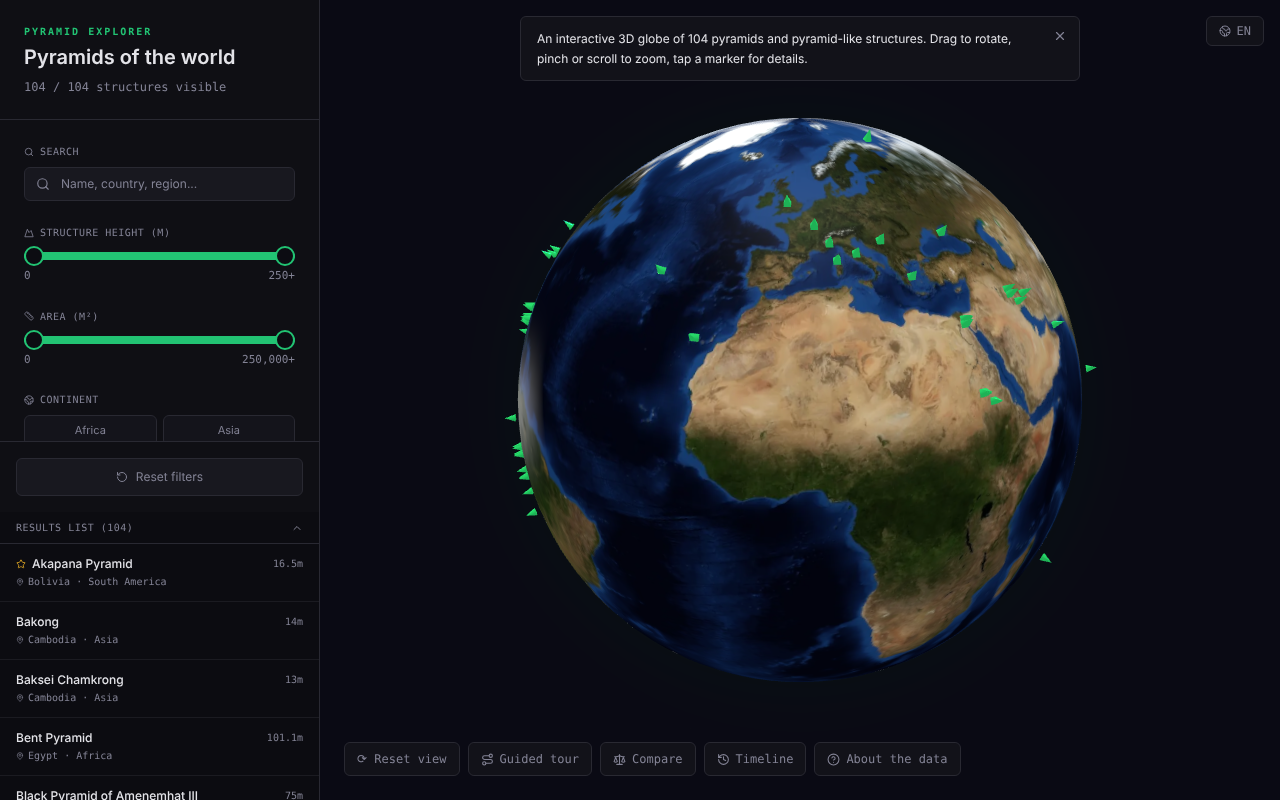
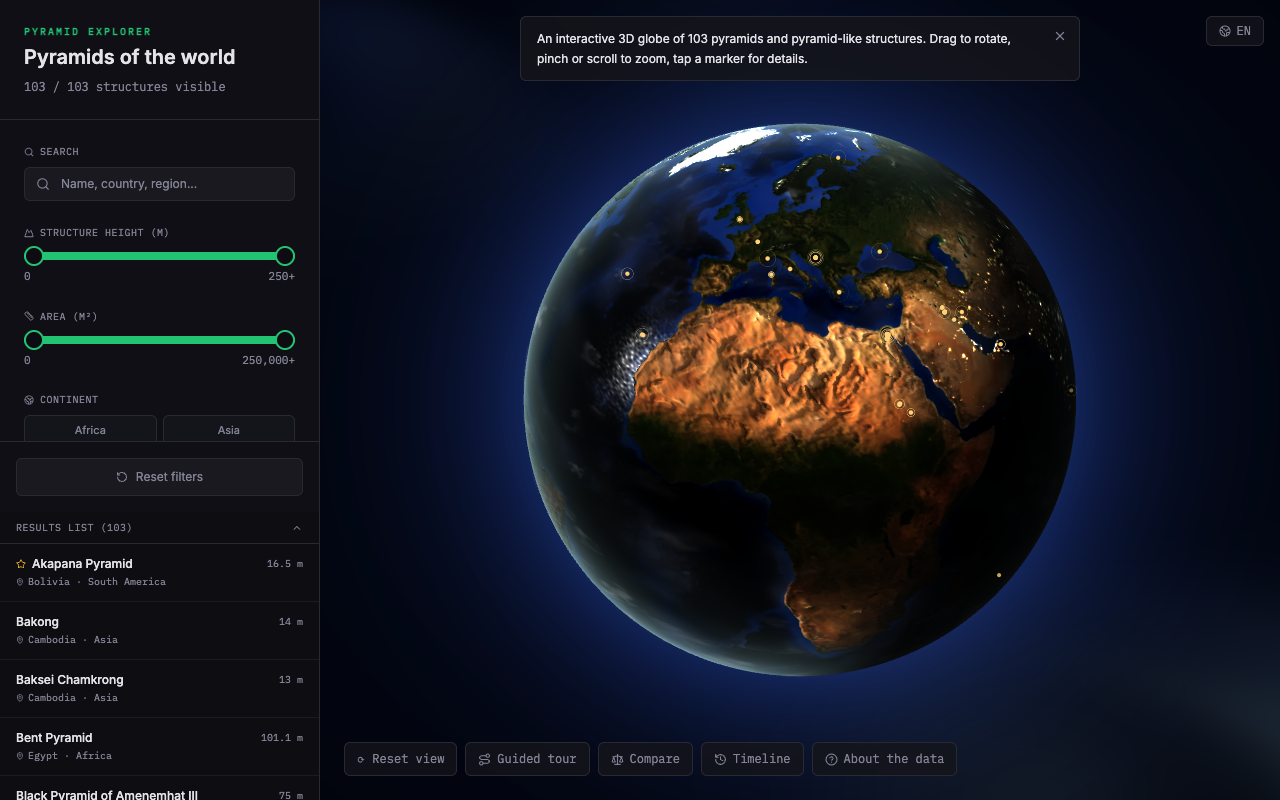
Refresh README, roadmap and screenshots; apply the independent data check
- README describes the current globe, data rules and commands
- The roadmap lists what this branch did and what is still open
- New screenshots of the current globe
- An agent reopened the changed sources and confirmed them; a
  watermarked photo of the Tomb of the General was replaced

diff --git a/README.md b/README.md
@@ -1,6 +1,8 @@
 # Pyramid Explorer
 
-An interactive 3D globe of 103 pyramids and pyramid-like structures around the world: Egypt, Mesoamerica, Sudan, China, Europe and more. Pick a marker to see dimensions, dating, function, local legends and sources. Every site shows how well its data is sourced, and alternative claims are kept apart from mainstream archaeology.
+An interactive 3D globe of 103 pyramids and pyramid-like structures: Egypt, Sudan, Mesoamerica, the Andes, China, Southeast Asia, Europe and the Pacific. Pick a pin to see dimensions, dating, function, local legends, photos and sources. Every site shows how well its data is sourced, and alternative claims are kept apart from mainstream archaeology.
+
+Live: https://pyramid-explorer-global.vercel.app
 
 | Desktop | Mobile |
 | --- | --- |
@@ -8,20 +10,24 @@ An interactive 3D globe of 103 pyramids and pyramid-like structures around the w
 
 ## Features
 
-- 3D globe (three.js via globe.gl) with drag, pinch and scroll zoom, slow auto-rotation, and day/night lighting from the real sun position.
-- Fly-to animation when a site is picked from the globe or from the list.
-- Filters by continent, period, height, area, free text, verification and contested status, with sorting.
-- Compare sites at the same scale, follow a timeline of construction, or take a guided tour.
-- Shareable URLs for sites, filters and comparisons; a prerendered page per site and a sitemap for search engines.
-- Detail panel with verification status, sources, photos and clearly separated alternative claims.
-- Six languages for both the interface and the site texts: EN, IT, ES, FR, DE, PT.
-- Works on phones: the panel becomes a drawer, and the globe uses a lighter 2K texture, no bump map and a capped pixel ratio.
-- No WebGL? A flat world map with the same markers is shown instead.
-- Respects `prefers-reduced-motion` (no auto-rotation) and pauses rendering while the tab is hidden.
+- A planet globe in three.js with clickable pins, drag, pinch and scroll zoom. A static picture paints first; the 3D scene starts after it and lowers its quality on slow devices.
+- Filters by continent, civilization, period, height, area, free text, verification and contested status, with sorting.
+- Compare sites at the same scale, follow a timeline, or take a guided tour.
+- Photo gallery from Wikimedia Commons on 93 sites, with author and licence next to every photo.
+- 360° panoramas from Commons for a few sites, and schematic 3D models of five Egyptian pyramids built only from sourced measurements.
+- Shareable URLs for sites, filters and comparisons; a prerendered page per site and a sitemap.
+- Six languages for the interface and the site texts: English, Italian, Spanish, French, German, Portuguese.
+- Works on phones: the site card covers half the screen so the site stays visible on the globe.
+- Keyboard and screen reader support in the dialogs, and `prefers-reduced-motion` is respected.
+- No WebGL? A flat world map with the same pins is shown instead.
+
+## Data
+
+The dataset is `src/data/pyramids.json`. Each value either has a source or is listed in the site's `campi_senza_fonte` and marked as unsourced in the interface; nothing is estimated. [The data audit](docs/DATA_AUDIT.md) lists the sources, the corrections and the remaining gaps, with a coverage report generated from the data.
 
 ## Stack
 
-React 18, TypeScript, Vite, Tailwind CSS, shadcn/ui, framer-motion, three.js + react-globe.gl, Vitest + Testing Library. Static site, no backend: the dataset is `src/data/pyramids.json`. Hosted on Vercel.
+React 18, TypeScript, Vite, Tailwind CSS, Radix, three.js, Vitest and Testing Library. Static site with no backend, hosted on Vercel.
 
 ## Run locally
 
@@ -29,15 +35,12 @@ React 18, TypeScript, Vite, Tailwind CSS, shadcn/ui, framer-motion, three.js + r
 bun install --frozen-lockfile
 bun run dev      # http://localhost:8080
 bun run test
-bun run build
+bun run build    # also prerenders /site/<id> pages and the sitemap
+bun run audit    # refreshes the coverage report in docs/DATA_AUDIT.md
 ```
 
-No environment variables are required.
-
-## Performance notes
-
-three.js and globe.gl are loaded lazily, after first paint. The globe chunk loads afterwards, and site translations load only for the language in use. Earth textures are self-hosted WebP files in `public/textures`, derived from the three-globe example images: about 150 kB on mobile and 540 kB on desktop, instead of roughly 2.7 MB from a CDN.
+Vite needs Node 20.19 or later. The planet's textures and mesh are served from Vercel Blob; to work offline, copy them to `public/planet` and set `VITE_PLANET_ASSETS=/planet` in `.env.local`.
 
 ## Project status
 
-Personal project under active development: see [the roadmap](docs/ROADMAP.md). The data was fact-checked against sources, and the gaps are listed in [the data audit](docs/DATA_AUDIT.md). No value without a source is presented as verified.
+Personal project: see [the roadmap](docs/ROADMAP.md) and [the photo and 360° notes](docs/PHOTO_EXPERIENCE.md).

diff --git a/docs/ROADMAP.md b/docs/ROADMAP.md
@@ -1,18 +1,32 @@
 # Roadmap
 
-## Done on `improve/portfolio-ready`
-- Renamed to Pyramid Explorer; neutral labels for mainstream data and alternative claims.
-- Fact-checked dataset with status, sources and flagged gaps; new sourced sites.
-- Site texts in six languages, with language detection and memory.
-- Shareable URLs for sites, filters and comparisons; prerendered site pages and sitemap.
-- Scale comparison, timeline, guided tour, period and verification filters, sorting, two-thumb range sliders.
+## Done
 
-- Removed unused components and packages; fonts are self-hosted.
+### First release (PR #1 to #4)
+- Renamed to Pyramid Explorer; neutral labels for mainstream data and alternative claims.
+- Fact-checked dataset of 103 sites with status, sources and flagged gaps.
+- Site texts in six languages, with language detection and memory.
+- Shareable URLs for sites, filters and comparisons; prerendered site pages and a sitemap.
+- Scale comparison, timeline, guided tour, period and verification filters, sorting.
+- Planet globe with real site pins; a static picture paints first and the 3D scene starts afterwards.
+- Photo gallery from Commons with author and licence on every photo.
+- 360° view, first trial on Commons panoramas.
+
+### Final polish (PR #5)
+- Coordinates of every site checked against Wikipedia, Wikidata and OpenStreetMap; the Pyramid of the Moon and Marae Mahaiatea were moved to their real positions.
+- Khufu confirmed in the Giza panorama from the author's own note on Commons.
+- 19 altitude and area gaps filled from sources; a coverage report in `DATA_AUDIT.md` is generated from the data, and a test fails when it is stale.
+- Photos for 10 more sites (93 of 103).
+- A second Commons search for 360° panoramas on all 99 uncovered sites found no new file that shows one of them (see `PHOTO_EXPERIENCE.md`).
+- Civilization filter, from the builders already named in the data.
+- Schematic 3D models of five Egyptian pyramids, built only from sourced measurements and loaded on demand.
+- Brighter globe on phones, at the same cost per pixel.
+- Keyboard, focus and screen reader fixes in the gallery and the 360° viewer; Escape in a dialog no longer closes the site card.
+- Translated 404 page, globe and map labels; localized numbers in the comparison.
 
 ## Next
-1. Planet globe with real site pins, adapted from the GetLayers scene: smaller textures, one bloom pass at most, capped pixel ratio, assets on Vercel Blob. Keep it only if it runs well on a real phone.
-2. Keep measuring with PageSpeed Insights after each deploy. The page now paints a static globe first and starts three.js on the first interaction or about 2.5 s after load; that moves the globe's cost later, it does not remove it.
-3. 360° view: see `PHOTO_EXPERIENCE.md`. The photo gallery with credits is done, covering 83 sites.
-4. Close the source gaps listed in `DATA_AUDIT.md`, starting with altitude and area.
-5. Rendered 3D models of a few well-documented pyramids, drawn from sourced measurements.
-6. Add civilization filters once the data has a structured civilization field.
+1. Close the remaining source gaps in `DATA_AUDIT.md`: 76 altitudes and 71 areas are still unsourced. Open sources rarely give a site's altitude; an archaeological or survey source is needed, not a terrain model.
+2. Sites still without photos: the claimed Visoko hills, Kola, Crimea, the Azores, Gunung Lalakon, Icod de los Vinos, Gympie, Pulemelei. Most have no free image of the structure itself.
+3. More 360° coverage needs either new Commons uploads or a decision on Street View or Mapillary, which need an API key.
+4. A human review of the data check, entry by entry: so far it was done by agents against the sources.
+5. Keep measuring with Lighthouse and PageSpeed after each deploy.

diff --git a/docs/DATA_AUDIT.md b/docs/DATA_AUDIT.md
@@ -86,6 +86,8 @@ Every site was compared with the coordinates of the Wikipedia pages it already c
 | `xunantunich_el_castillo` | altitude | 152 m | Portuguese Wikipedia infobox for the site |
 | `pachacamac_templo_pintado` | altitude | 80 m | Italian Wikipedia infobox for the site |
 
+A separate agent reopened every source in this table, the coordinates above and the five model measurements, and confirmed them. `akapana` and `pachacamac_templo_pintado` carry the altitude of the whole site (Tiwanaku, Pachacamac). The infobox bases of Userkaf, Pepi II and the Black Pyramid have no inline citation.
+
 Left unsourced on purpose:
 - Wikidata elevations without a reference were not used. For the Giza pyramids they disagree with other sources: Wikidata gives 95 m for Khufu, the Italian Wikipedia 60 m.
 - Areas of whole sites (Copán, El Tajín, Poverty Point, Calakmul, Brihadisvara temple complex) were not used for a single structure.

diff --git a/CLAUDE.md b/CLAUDE.md
@@ -33,6 +33,7 @@ Install with `bun install --frozen-lockfile`: `npm install` currently crashes on
 `/site/:id` opens a site. Query params hold filters and `compare=a,b`. Keep these stable: they are shareable.
 
 ## Status
+- PR #5 (`improve/final-polish`): data checks, photos, civilization filter, schematic models, phone globe, accessibility. See `docs/ROADMAP.md`.
 - Node: Vite 7 needs Node 20.19+; if `bun` is missing, `npx -y bun@1.2.23 install --frozen-lockfile` works.
 - Coordinates were checked against Wikipedia, Wikidata and OpenStreetMap in November 2026: see "Coordinate check" in `docs/DATA_AUDIT.md`.
 See `docs/ROADMAP.md`. The 360° trial and its coverage are in `docs/PHOTO_EXPERIENCE.md`.
